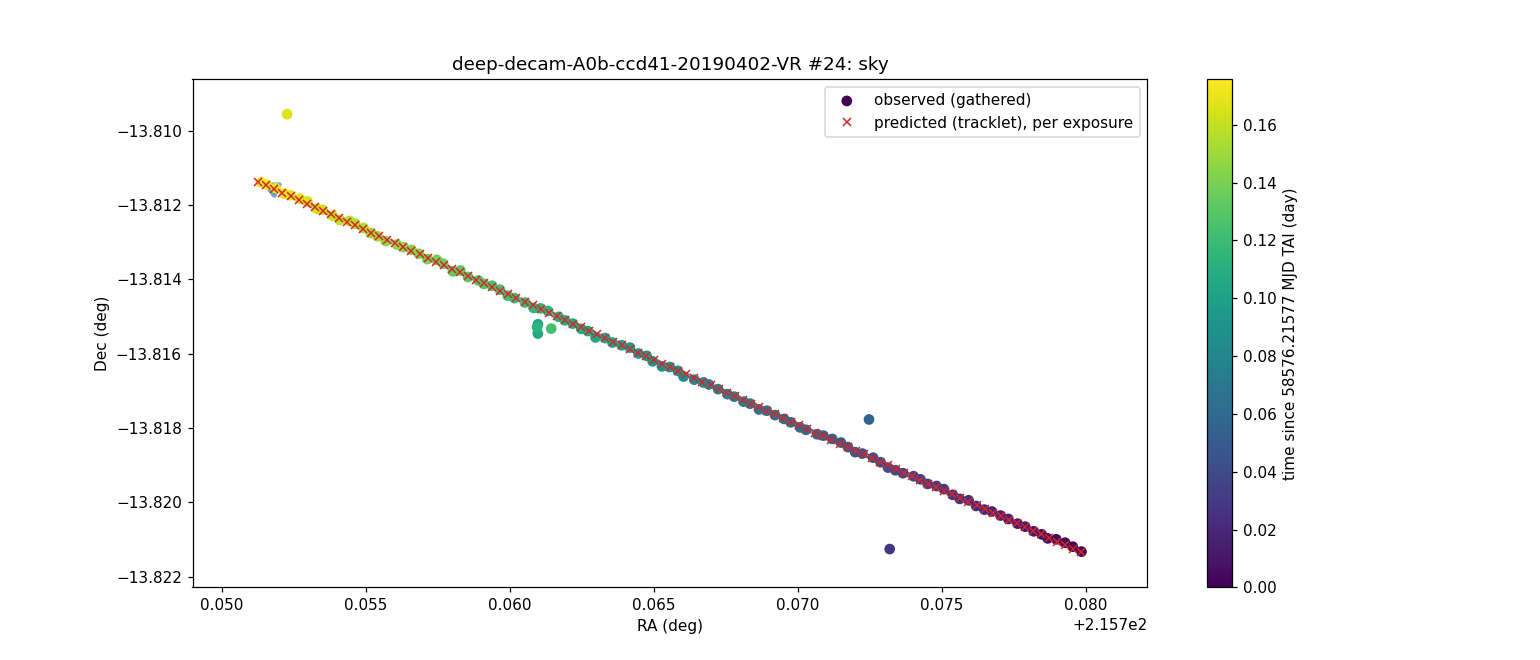
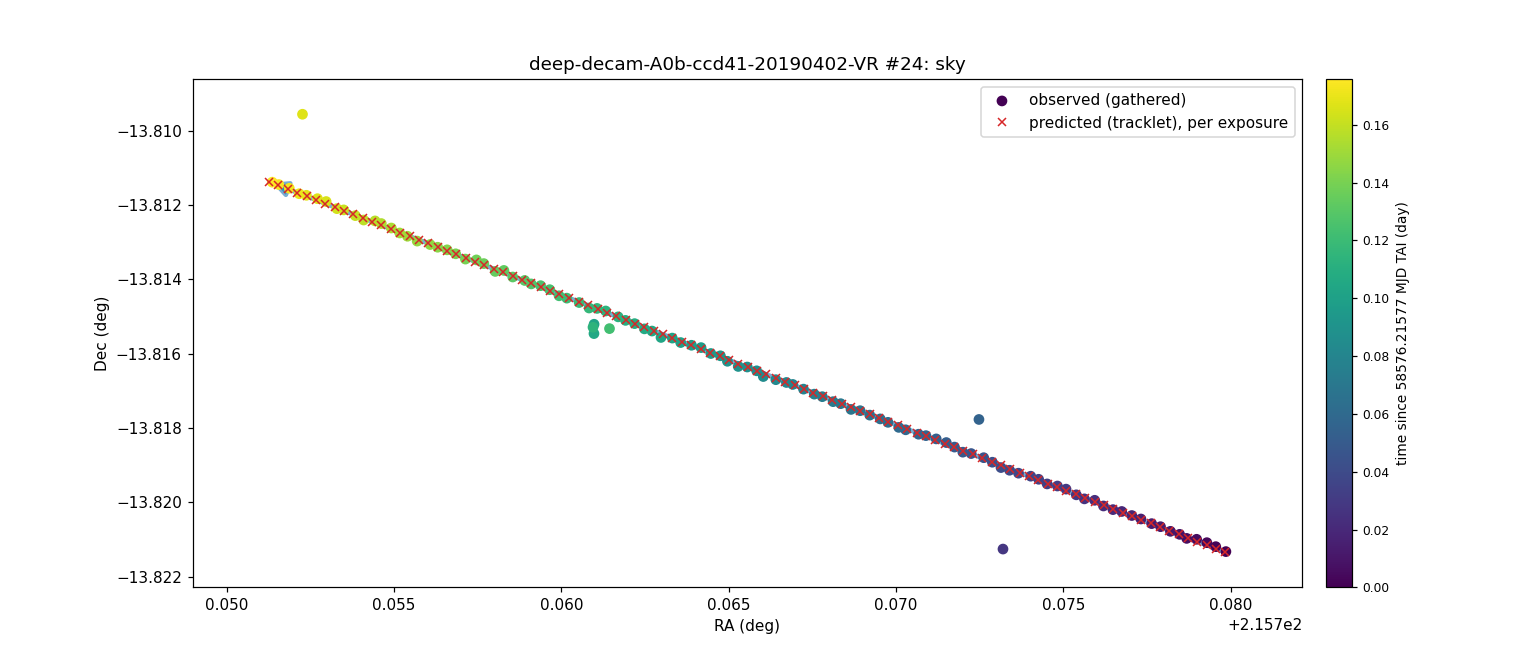
Fix the sky plot colorbar / light curve ylabel overlap in the PDF report
The PDF's sky (left) and light-curve (right) panels in the bottom row had
zero margin between them (both exactly 5in wide, touching at x=5in). The
sky plot's rotated colorbar label ("time since ... MJD TAI (day)") and the
light curve's "mag" ylabel both extend outward from their own panel's edge
by a non-trivial amount (confirmed by reading the actual PDF text spans'
bounding boxes, not just eyeballing a render) and were landing on top of
each other.

Two changes, confirmed by measuring the real rendered text positions
(empirically -- a naive 0.4in gap still overlapped by ~17pt; 0.9in leaves a
clean ~18pt margin):
- render_sky_plot(): a tighter colorbar (fraction=0.05/pad=0.02 vs
  matplotlib's own 0.15/0.05 defaults) and a smaller label/tick fontsize --
  helps both the PDF and the standalone sky.png, though insufficient alone.
- web/site.py: an explicit 0.9in gap between the sky and light-curve panels
  (_PDF_SKY_LIGHT_CURVE_GAP_IN), stolen evenly from both panels' widths so
  the row's total width is unchanged.

Regenerated the committed example (docs/examples/viz/result_20190402_ccd41_24)
to show the fix; verified by reading the actual PDF's text positions, not
just a screenshot.

diff --git a/src/deep_asteroids/web/site.py b/src/deep_asteroids/web/site.py
@@ -56,8 +56,14 @@ _PDF_ROW_HEIGHT_IN = 3.25
 _PDF_SUMMARY_WIDTH_IN = 5.0
 _PDF_PADDING_IN = 0.25  # inset on every side of the summary panel and each image box
 _PDF_COADD_SIZE_IN = 3.25
-_PDF_SKY_WIDTH_IN = 5.0
-_PDF_LIGHT_CURVE_WIDTH_IN = 5.0
+# the sky plot's colorbar (and its rotated label) sits right at its panel's own right edge,
+# with nothing to its right in the standalone sky.png -- but here the light-curve panel's
+# ylabel used to be immediately adjacent with no margin to spare, and the two overlapped. An
+# explicit extra gap (on top of each panel's own _PDF_PADDING_IN inset) fixes that with room
+# to spare, even though render_sky_plot() also tightened the colorbar itself.
+_PDF_SKY_LIGHT_CURVE_GAP_IN = 0.9
+_PDF_SKY_WIDTH_IN = 5.0 - _PDF_SKY_LIGHT_CURVE_GAP_IN / 2
+_PDF_LIGHT_CURVE_WIDTH_IN = 5.0 - _PDF_SKY_LIGHT_CURVE_GAP_IN / 2
 # the seen/unseen coadd pair (#38), stacked in the gap between the summary and the coadd
 _PDF_SMALL_COADD_WIDTH_IN = _PDF_CONTENT_WIDTH_IN - _PDF_SUMMARY_WIDTH_IN - _PDF_COADD_SIZE_IN  # 1.75in
 _PDF_SMALL_COADD_HEIGHT_IN = _PDF_ROW_HEIGHT_IN / 2  # 1.625in
@@ -303,7 +309,8 @@ def render_result_pdf(sd, run_id, result_num, summary, stats, out_dir):
     render_sky_plot(run_id, result_num, tracklet, gathered, exposure_times, out_dir, ax=sky_ax, title=False,
                     matched=matched)
 
-    light_curve_ax = padded_box(_PDF_SKY_WIDTH_IN, bottom_row_y, _PDF_LIGHT_CURVE_WIDTH_IN, _PDF_ROW_HEIGHT_IN)
+    light_curve_ax = padded_box(_PDF_SKY_WIDTH_IN + _PDF_SKY_LIGHT_CURVE_GAP_IN, bottom_row_y,
+                                _PDF_LIGHT_CURVE_WIDTH_IN, _PDF_ROW_HEIGHT_IN)
     render_light_curve_plot(summary, out_dir, ax=light_curve_ax, title=False)
 
     out_dir.mkdir(parents=True, exist_ok=True)

diff --git a/src/deep_asteroids/viz/result.py b/src/deep_asteroids/viz/result.py
@@ -185,7 +185,14 @@ def render_sky_plot(run_id, result_num, tracklet, gathered, exposure_times, out_
     ra, dec, time = (np.array(c) for c in zip(*gathered))
     t0 = float(time.min())
     sc = ax.scatter(ra, dec, c=time - t0, cmap="viridis", label="observed (gathered)", zorder=2)
-    ax.figure.colorbar(sc, ax=ax).set_label(f"time since {t0:.5f} MJD TAI (day)")
+    # fraction/pad tighter than matplotlib's own defaults (0.15/0.05): those default to eating
+    # a chunk of whatever's to the right of a manually-placed Axes (e.g. the PDF report's
+    # light-curve panel, immediately to this one's right with no room to spare), overlapping
+    # its "mag" ylabel with this colorbar's own rotated label text. A compact one still reads
+    # fine in the standalone sky.png (ax=None, no neighbor) too.
+    cbar = ax.figure.colorbar(sc, ax=ax, fraction=0.05, pad=0.02)
+    cbar.set_label(f"time since {t0:.5f} MJD TAI (day)", fontsize=9)
+    cbar.ax.tick_params(labelsize=8)
 
     tmin, tmax = min([*exposure_times, time.min()]), max([*exposure_times, time.max()])
     (ra0, dec0), (ra1, dec1) = predict(tracklet, tmin), predict(tracklet, tmax)
